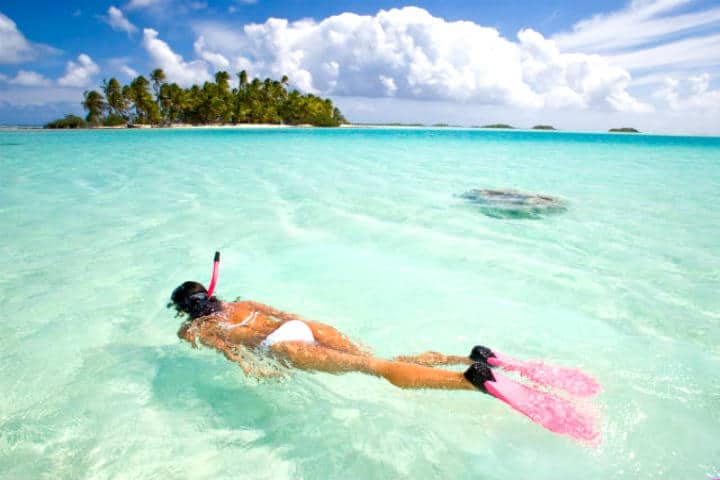
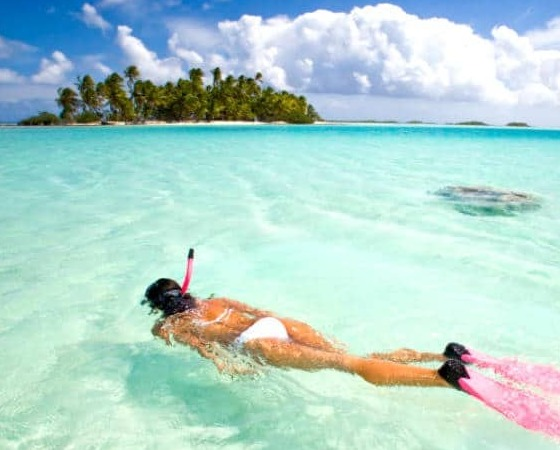
cambiando imagenes

diff --git a/secciones/servicios.html b/secciones/servicios.html
@@ -147,22 +147,22 @@
   <article class="row">
     <h2>Areas turisticas</h2>
   <div class="col-sm-3">
-    <img src="../assets/cayosombrero.jpg" .alt="">
+    <img src="../assets/losroques1.jpg" .alt="">
     <p>El Parque nacional Los Roques es un archipiélago de Venezuela .esta protegida y contiene más de 300 islas y cayos. El arrecife de coral del archipiélago es popular entre quienes practican el buceo. El parque es famoso por sus playas de arena blanca apartadas.
   </p>
   </div>
     <div class="col-sm-3">
-      <img src="../assets/gransabana.jpg" .alt="">
+      <img src="../assets/La-Proa-del-Roraima-rtrevisi.gif" .alt="">
       <p>El Parque Nacional Canaima es un parque nacional ubicado en el estado Bolívar, Venezuela. Fue instaurado el 12 de junio de 1962 y declarado Patrimonio de la Humanidad por la Unesco en el año 1994.
     </div>
       <div class="col-sm-3">
-        <img src="../assets/images (2).jpg" .alt="">
+        <img src="../assets/5c7238e0fe4f6674065f84fb3f944d7b (1).jpg" .alt="">
         <p>El parque Sierra Nevada de Mérida es una cadena montañosa perteneciente a la Cordillera de los Andes la cual atraviesa la parte occidental de Venezuela, específicamente entre Barinas y Mérida.
       
         </p>
       </div>
         <div class="col-sm-3">
-          <img src="../assets/llanero.jpg" .alt="">
+          <img src="../assets/llanoven.jpg" .alt="">
           <p>EL llano de Venezuela está surcado por numerosos ríos de gran longitud y anchura, todos los cuales son parte de la cuenca del Orinoco. Sus principales actividades económicas son la ganadería seguida por la agricultura y pesca.
         
           </p>

diff --git a/index.html b/index.html
@@ -105,22 +105,22 @@
   <article class="row">
     <h2>Areas turisticas</h2>
   <div class="col-sm-3">
-    <img src="./assets/cayosombrero.jpg" .alt="">
+    <img src="./assets/losroques1.jpg" .alt="">
     <p>El Parque nacional Los Roques es un archipiélago de Venezuela .esta protegida y contiene más de 300 islas y cayos. El arrecife de coral del archipiélago es popular entre quienes practican el buceo. El parque es famoso por sus playas de arena blanca apartadas.
   </p>
   </div>
     <div class="col-sm-3">
-      <img src="./assets/gransabana.jpg" .alt="">
+      <img src="./assets/La-Proa-del-Roraima-rtrevisi.gif" .alt="">
       <p>El Parque Nacional Canaima es un parque nacional ubicado en el estado Bolívar, Venezuela. Fue instaurado el 12 de junio de 1962 y declarado Patrimonio de la Humanidad por la Unesco en el año 1994.
     </div>
       <div class="col-sm-3">
-        <img src="./assets/images (2).jpg" .alt="">
+        <img src="./assets/5c7238e0fe4f6674065f84fb3f944d7b (1).jpg" .alt="">
         <p>El parque Sierra Nevada de Mérida es una cadena montañosa perteneciente a la Cordillera de los Andes la cual atraviesa la parte occidental de Venezuela, específicamente entre Barinas y Mérida.
       
         </p>
       </div>
         <div class="col-sm-3">
-          <img src="./assets/llanero.jpg" .alt="">
+          <img src="./assets/llanoven.jpg" .alt="">
           <p>EL llano de Venezuela está surcado por numerosos ríos de gran longitud y anchura, todos los cuales son parte de la cuenca del Orinoco. Sus principales actividades económicas son la ganadería seguida por la agricultura y pesca.
         
           </p>
